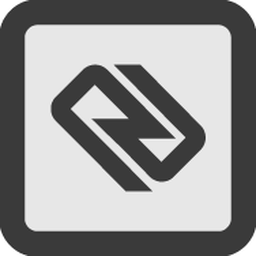
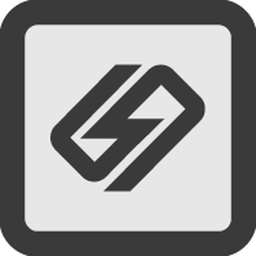
Turn the Paperclip and the Lamp the right way, as Anki's engine sees them
Checked against Anki's own engine, through its SDK and the Cozmo
application on a phone, pycozmo told the Paperclip and the Anglepoise
Lamp apart in hardly any of the frames it found of them: Anki saw them
in each of 165 images, and pycozmo put a name on 40 of 330 frames, not
all of them right. Their drawings are mirror images of the stickers:
mirrored, they match them at 0.85 instead of 0.69 and 0.72. The Deli
Slicer's was right, which is all the robot had shown before.

The stickers also have their symbol higher than the drawings, by 4.5%
of the side, over the bar the drawings lack. The drawings are raised as
much before they are compared, and blurred less. Every frame found of
the three cubes now comes out as the cube Anki saw, the right way up, at
a likeness of 0.87 or more, and nothing else comes closer than 0.45; the
thresholds go up to 0.5 and a margin of 0.15.

Anki also places them 9% nearer than pycozmo does, sideways as much as
ahead, which points at the marker's size rather than the camera's
geometry: that is left for a measurement on the stickers.

Changed region(s): [[0.1875, 0.25, 0.8125, 0.75]]

diff --git a/pycozmo/marker_detection.py b/pycozmo/marker_detection.py
@@ -23,10 +23,13 @@ little above the middle of the cube's side. Which way the frame faces is less su
 images.
 
 The symbol is told by comparing the straightened square with Anki's drawings of the three, in the
-cube_markers directory, each turned four ways. The stickers are not quite the drawings: their strokes are
-thicker, and a bar runs under the symbol that the drawings do not have. So both are blurred a little, and
-only the middle of the square is compared, above the bar. Those 16 images of a Deli Slicer all came out as
-one, the right way up, at a likeness of 0.50 or more, and nothing else came closer than 0.27.
+cube_markers directory, each turned four ways. The stickers are not quite the drawings: the symbol sits
+higher, by 4.5% of the side, over a bar that the drawings do not have, and its strokes are thicker. So the
+drawings are raised as much, both are blurred a little, and only the middle of the square is compared,
+above the bar. Checked against Anki's own engine, through its SDK, which saw a Paperclip and an Anglepoise
+Lamp in each of 165 images: each frame found of them came out as the cube Anki saw there, the right way up,
+at a likeness of 0.87 or more, and nothing else came closer than 0.45; so did a Deli Slicer in 16 other
+images.
 
 """
 
@@ -89,16 +92,19 @@ _AROUND = (0.03, 0.09)
 _MIN_CONTRAST = 15.0
 
 # The side the square is straightened to for telling the symbol, in pixels; the part of it compared, as
-# fractions of the side, away from the margin and the bar under the symbol; and how much it and the drawings
-# are blurred first, as a standard deviation in those pixels.
+# fractions of the side, away from the margin and the bar under the symbol; how much it and the drawings are
+# blurred first, as a standard deviation in those pixels; and how much higher than in the drawings the
+# symbol sits on the stickers, as a fraction of the side.
 _SYMBOL_SIZE = 32
 _SYMBOL = (0.25, 0.72)
-_SYMBOL_BLUR = 1.0
+_SYMBOL_BLUR = 0.7
+_SYMBOL_RAISE = 0.045
+# The inside of the frame, as fractions of the side: what is raised.
+_INSIDE = (0.14, 0.86)
 # How alike the square and the closest drawing have to be, as a correlation, and how much less alike the
-# closest drawing of another cube has to be. The three drawings, blurred the same way, are at most 0.45 alike,
-# the Paperclip and the Anglepoise Lamp.
-_MIN_LIKENESS = 0.35
-_MIN_MARGIN = 0.1
+# closest drawing of another cube has to be.
+_MIN_LIKENESS = 0.5
+_MIN_MARGIN = 0.15
 # How much the symbol has to stand out, as its standard deviation over the frame's contrast with the margin.
 _MIN_SPREAD = 0.1
 
@@ -272,12 +278,26 @@ def _drawings() -> Dict[Tuple[protocol_encoder.ObjectType, int], np.ndarray]:
     for cube in CUBE_MARKERS:
         resource = importlib.resources.files(__package__).joinpath("cube_markers", "{}.png".format(cube.value))
         with resource.open("rb") as f:
-            drawing = Image.open(f).convert("L").resize((_SYMBOL_SIZE, _SYMBOL_SIZE), Image.Resampling.BOX)
-        pixels = np.asarray(drawing, dtype=np.float64)
+            drawing = np.asarray(Image.open(f).convert("L"), dtype=np.float64)
+        sticker = Image.fromarray(_raise_symbol(drawing).astype(np.uint8))
+        pixels = np.asarray(sticker.resize((_SYMBOL_SIZE, _SYMBOL_SIZE), Image.Resampling.BOX), dtype=np.float64)
         for turns in range(4):
             # rot90() turns anticlockwise as the rows show on the screen.
             drawings[(cube, turns)] = _unit(_symbol(np.rot90(pixels, -turns)))
     return drawings
+
+
+def _raise_symbol(drawing: np.ndarray) -> np.ndarray:
+    """ A drawing as the stickers have it: what is inside the frame moved up, the margin's colour below. """
+    side = drawing.shape[0]
+    inside = slice(round(_INSIDE[0] * side), round(_INSIDE[1] * side))
+    shift = round(_SYMBOL_RAISE * side)
+    region = drawing[inside, inside]
+    raised = np.full_like(region, float(np.median(region)))
+    raised[:-shift] = region[shift:]
+    sticker = drawing.copy()
+    sticker[inside, inside] = raised
+    return sticker
 
 
 def _symbol(square: np.ndarray) -> np.ndarray:

diff --git a/pycozmo/tests/test_marker_detection.py b/pycozmo/tests/test_marker_detection.py
@@ -47,13 +47,13 @@ def turn(yaw: float = 0.0, tilt: float = 0.0) -> np.ndarray:
 
 def drawing(cube: pycozmo.protocol_encoder.ObjectType, turns: int = 0, bar: bool = True) -> np.ndarray:
     """
-    Anki's drawing of a cube's marker, turned quarter turns clockwise, as brightness from 0 to 1. The
-    stickers also have a bar under the symbol, which the drawings do not.
+    A cube's marker as the stickers have it, turned quarter turns clockwise, as brightness from 0 to 1: Anki's
+    drawing, its symbol raised a little, and a bar under it.
     """
     path = os.path.join(os.path.dirname(marker_detection.__file__), "cube_markers", "{}.png".format(cube.value))
-    pixels = np.asarray(Image.open(path).convert("L"), dtype=np.float64) / 255.0
+    pixels = marker_detection._raise_symbol(np.asarray(Image.open(path).convert("L"), dtype=np.float64)) / 255.0
     if bar:
-        pixels[196:206, 72:184] = 0.1
+        pixels[198:208, 72:184] = 0.1
     turned: np.ndarray = np.rot90(pixels, -turns)
     return turned
 

diff --git a/README.md b/README.md
@@ -300,7 +300,9 @@ faces, `turns` the quarter turns its symbol is turned by on the screen, and `cor
 symbol is told by comparing it with Anki's drawings of the three, in `pycozmo/cube_markers`. The frame's sides are fitted to a fraction of a pixel, and the lens' distortion taken out, before the frame is
 placed from the camera's calibration and its size, 27.0 mm. Checked on a robot, a cube filmed from four head angles
 was found in 16 images out of 16, where it stood with a standard deviation of 0.27 mm, and told for the Deli Slicer it
-was in all of them; nothing else in the room was taken for a marker. Finding them takes about 20 ms an image. Which way a marker faces is less sure, a few degrees at best.
+was in all of them; nothing else in the room was taken for a marker. Against Anki's own engine, through its SDK, which
+saw a Paperclip and an Anglepoise Lamp in each of 165 images, pycozmo told each of them for what Anki saw every time.
+It placed them 9% further than Anki did, though, sideways as much as ahead: the marker's size is in question. Finding them takes about 20 ms an image. Which way a marker faces is less sure, a few degrees at best.
 
 The brain does as the Cozmo application did with the cubes. It connects one of each kind as soon as the robot hears
 it, and lights it with Anki's own cube light animations: a dim cyan breath every five seconds once connected, a steady
